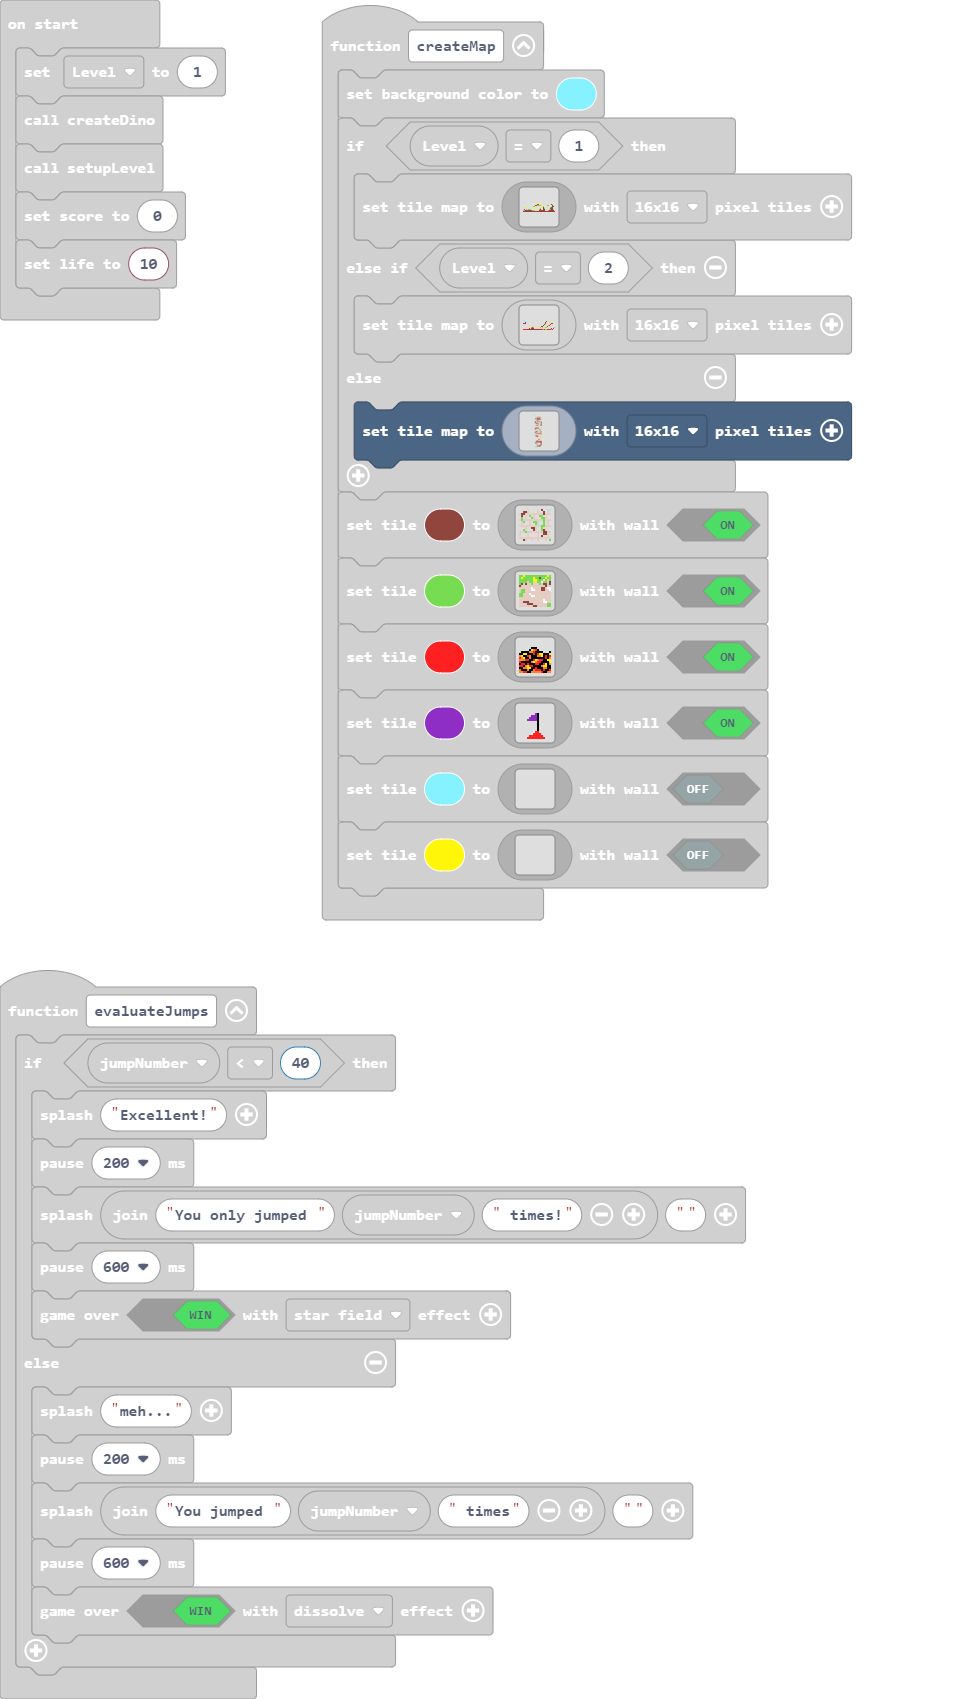
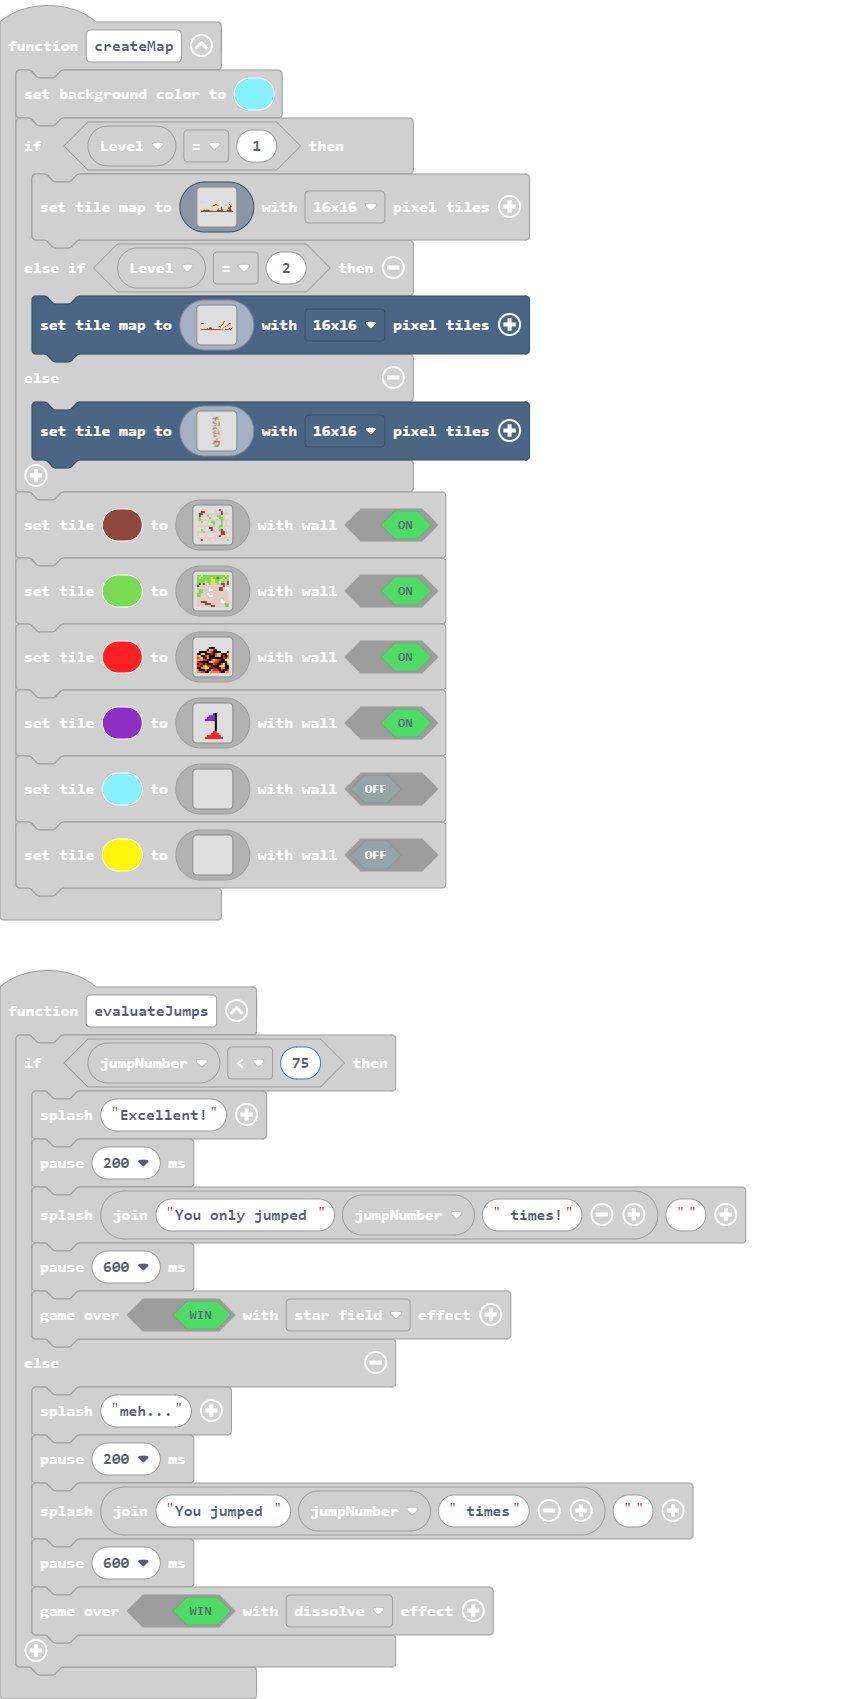
Finished!(I think)

diff --git a/main.ts b/main.ts
@@ -103,7 +103,7 @@ function createMap () {
             ....5.....77......5.7........ee.
             ..5.......55........e...5..72a..
             .................7..e7.....2ee..
-            .a.7.777.....5..7e..ee....77ee7.
+            ...7.777.....5..7e..ee....77ee7.
             772e2eee2777....ee22ee...7eeeee.
             eeeeeeeeeeee22eeeeeeee222eeeeee2
             `, TileScale.Sixteen)
@@ -111,7 +111,7 @@ function createMap () {
         scene.setTileMap(img`
             99..............................
             .......................e....5...
-            ..a...................e.........
+            ......................e.........
             eee.............5.....e..5..ee..
             .....................e.....2....
             ........5...........e.5..72.....
@@ -124,17 +124,17 @@ function createMap () {
         scene.setTileMap(img`
             5.........
             7.........
-            ....7.....
-            ..7...ee..
+            ..........
+            ..7..eee..
             ...22.....
-            ee.ee222..
-            ...eaeeee.
-            ..7e......
-            ...e......
-            e..e77277.
-            e.....e..2
+            ee.ee222.5
+            ...ea7.7e5
+            ..7e.....5
+            ...e....5.
+            e...77..7.
+            e........2
             ee.......e
-            .ee2e....e
+            .e2ee....e
             .5...e...e
             ........5e
             ..eee...ee
@@ -488,7 +488,7 @@ controller.right.onEvent(ControllerButtonEvent.Pressed, function () {
     animation.setAction(dino, ActionKind.walkingRight)
 })
 function evaluateJumps () {
-    if (jumpNumber < 40) {
+    if (jumpNumber < 75) {
         game.splash("Excellent!")
         pause(200)
         game.splash("You only jumped " + jumpNumber + " times!", "")
